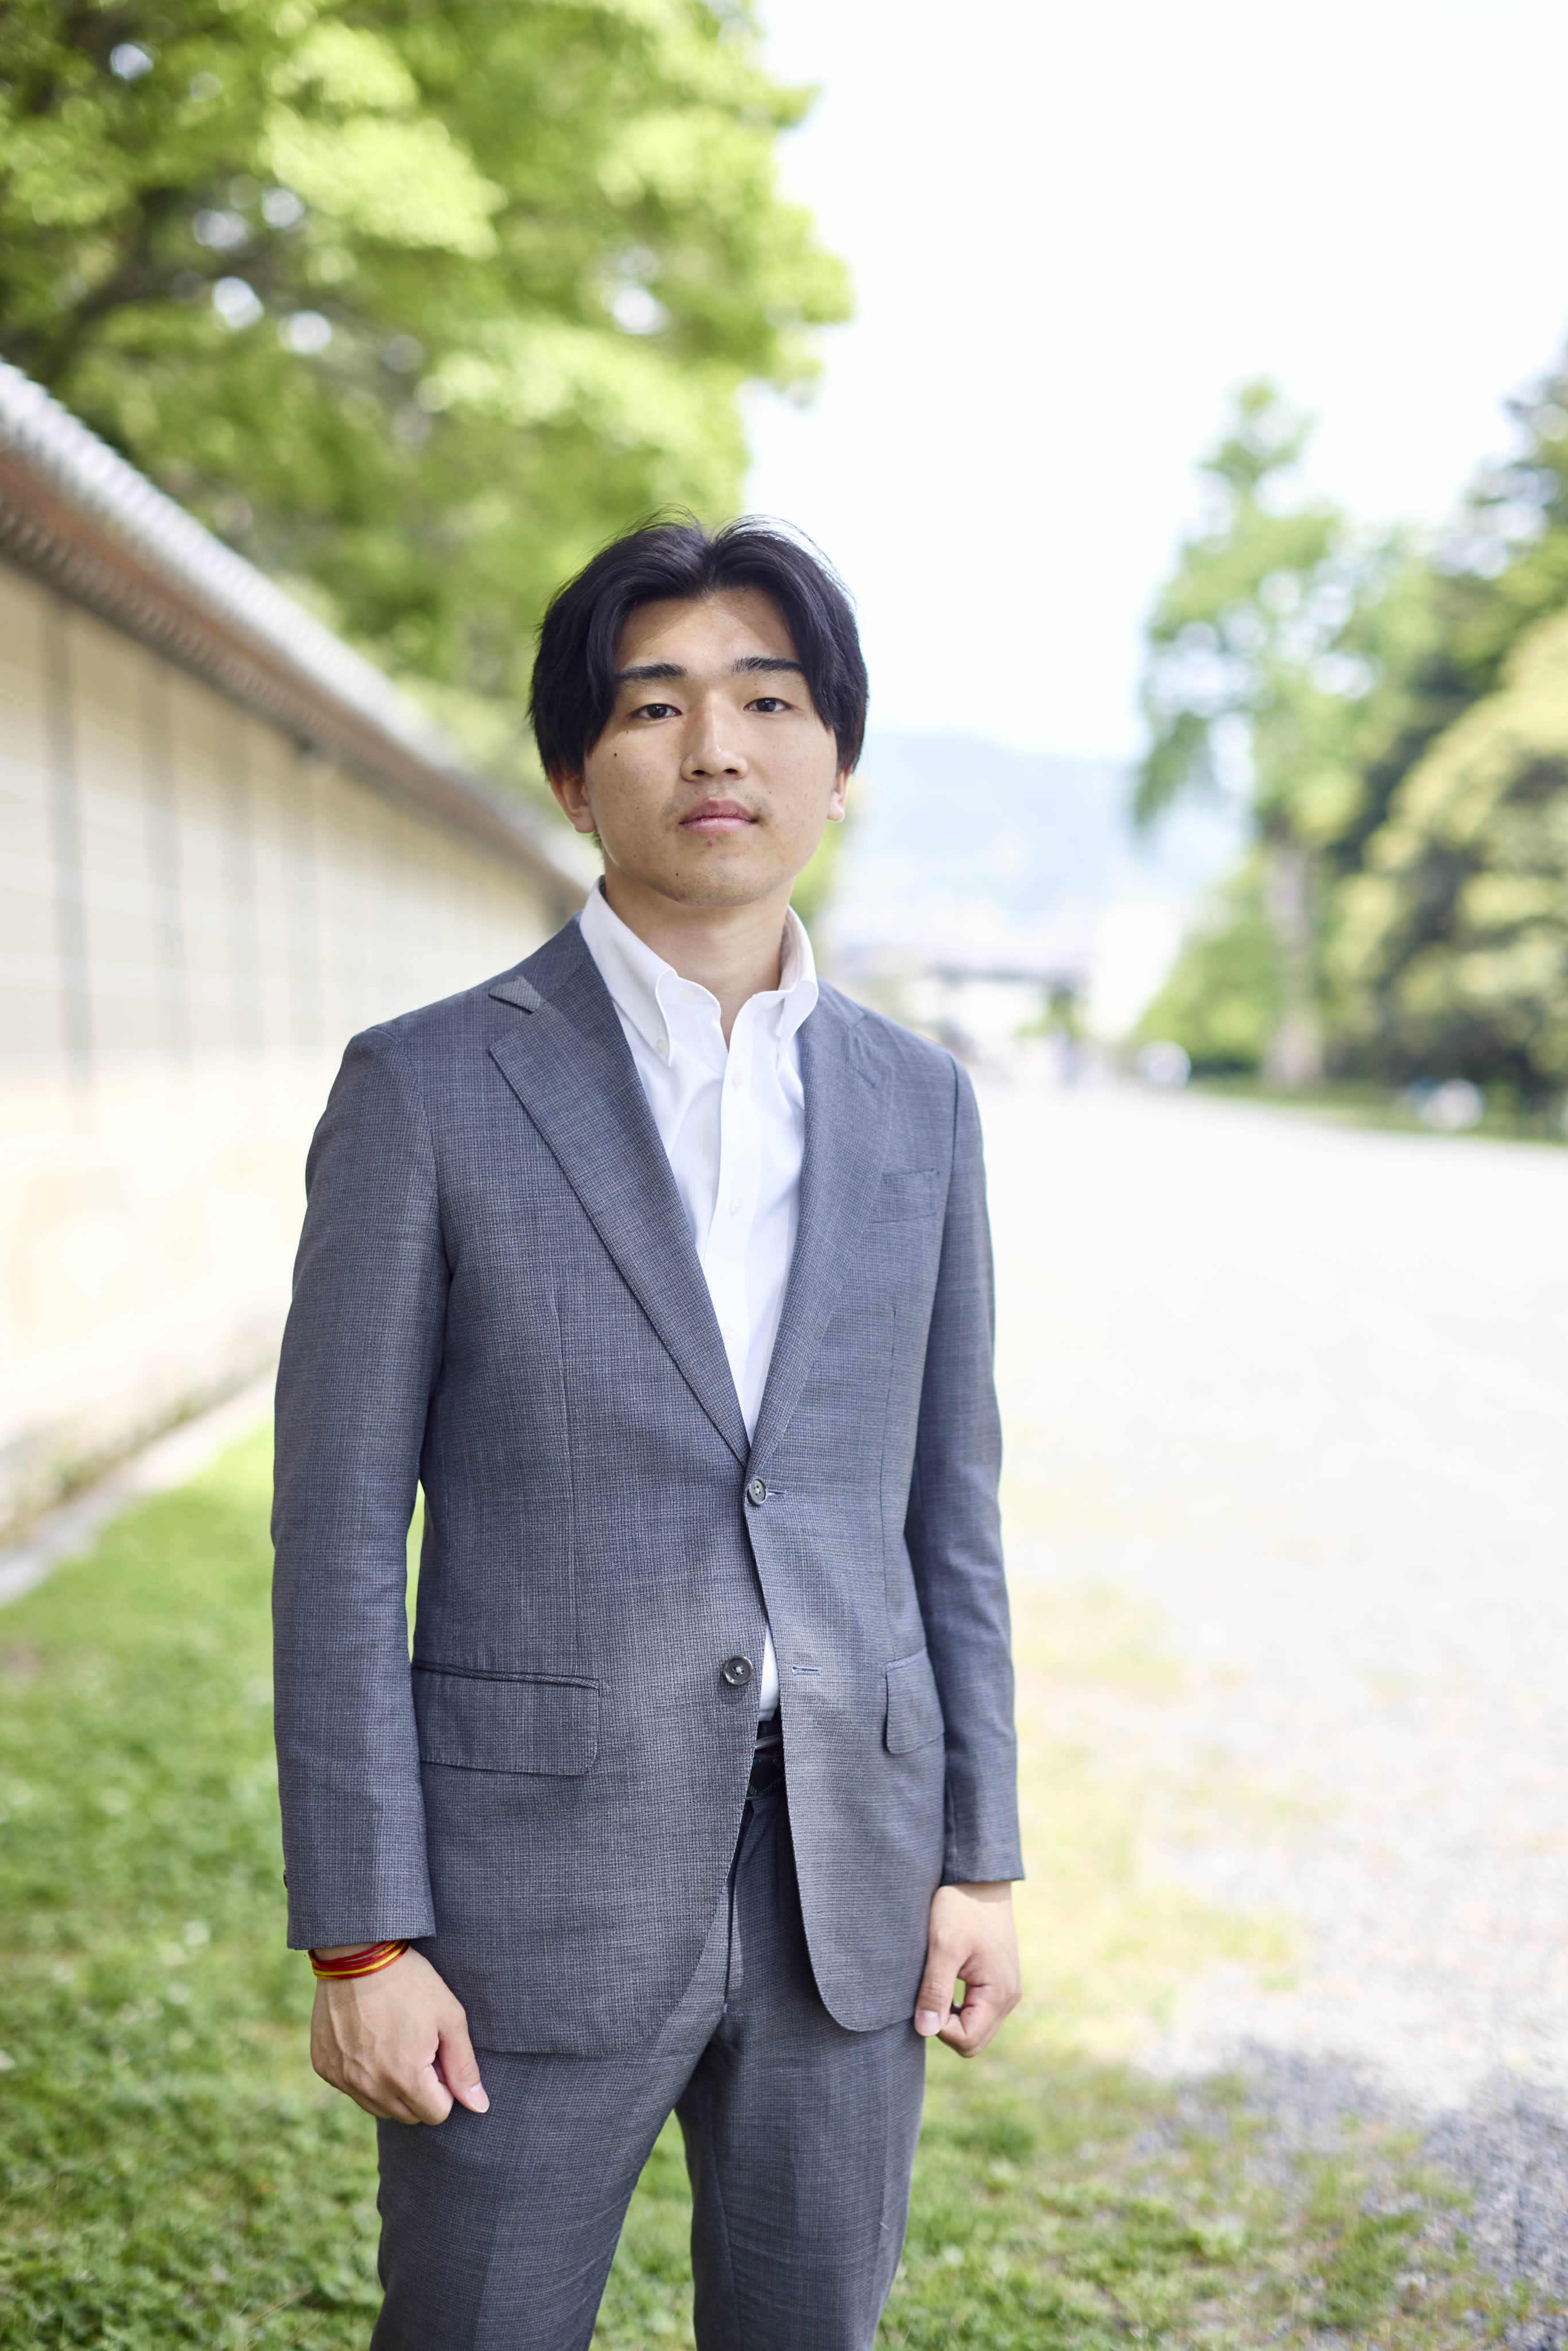
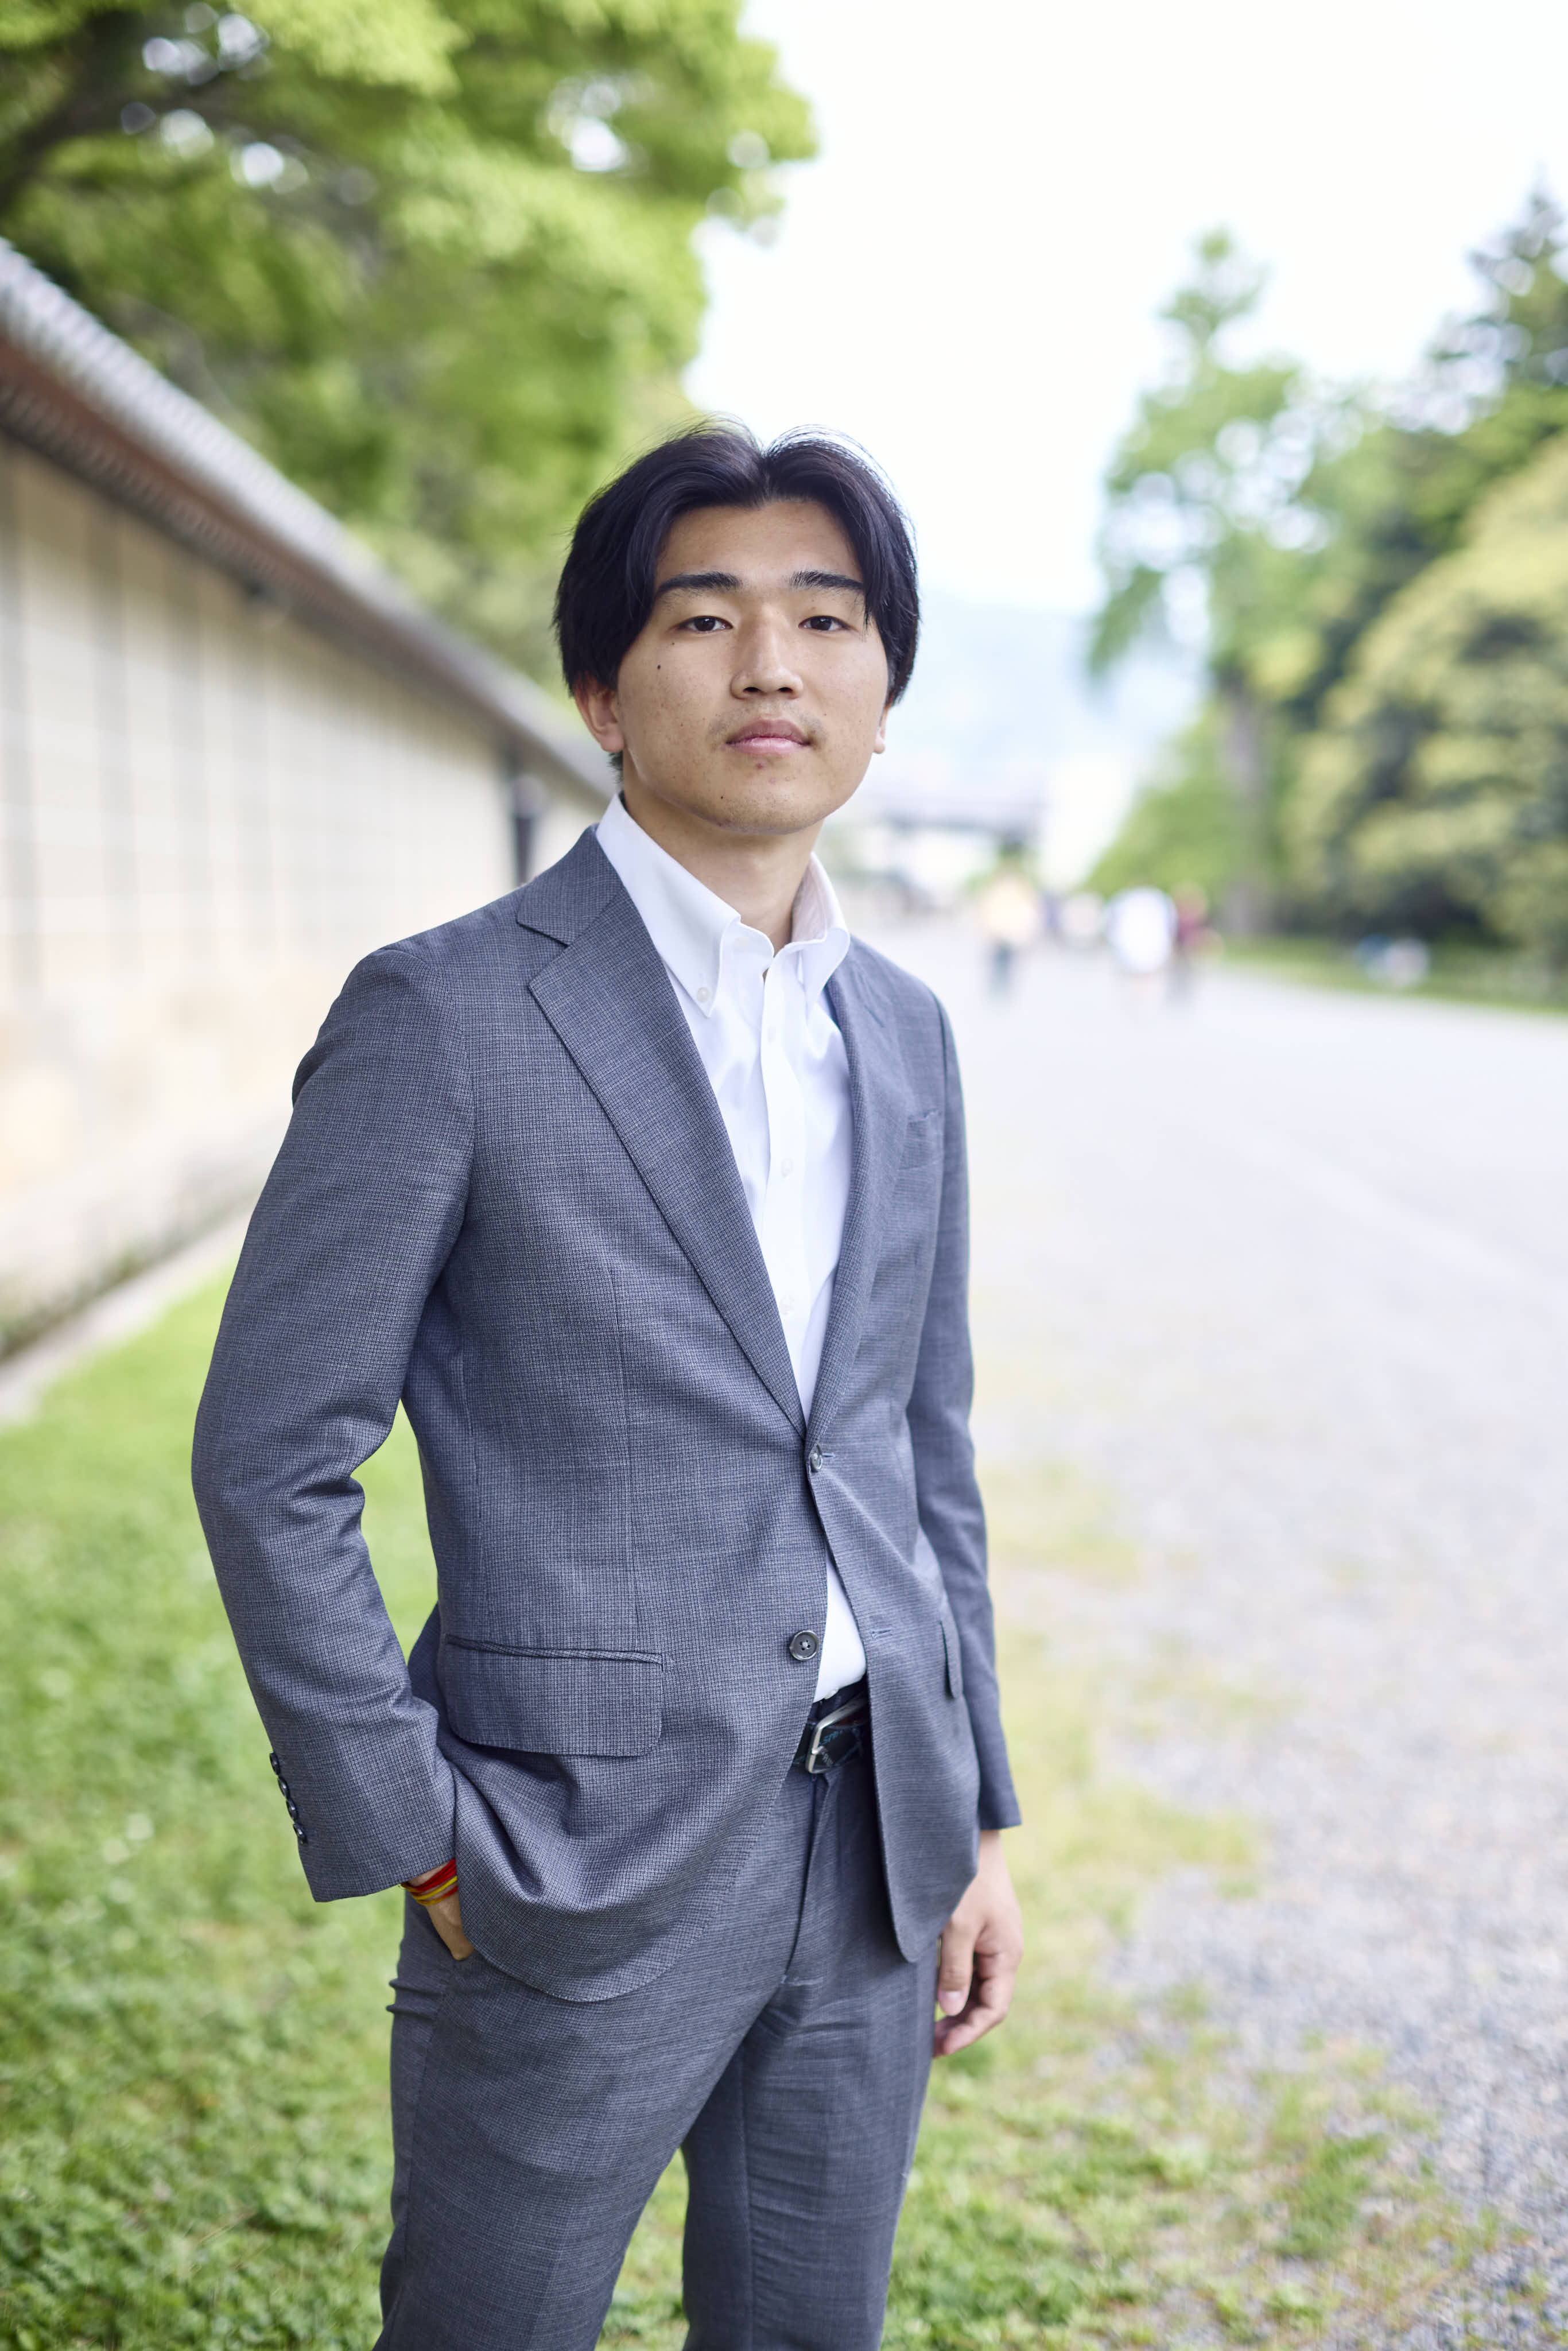
chore: 山下翔大のプロフィール画像と肩書きを更新

diff --git a/src/data/member/member.ts b/src/data/member/member.ts
@@ -115,7 +115,7 @@ export interface Member {
       id: "shota-yamashita",
       name: "山下 翔大",
       englishName: "Shota Yamashita",
-      position: "フロントエンドエンジニア / UIデザイナー",
+      position: "ARCHAIVE プロダクトマネージャー",
       description:
         "京都大学工学部建築学科卒。建築からエンジニアへ転身し、インドでの修行を経てSTARUPに参画。デザインと実装を一人で完結させるスピード感が強み。",
       comment: "デザイン駆動で価値を届ける",